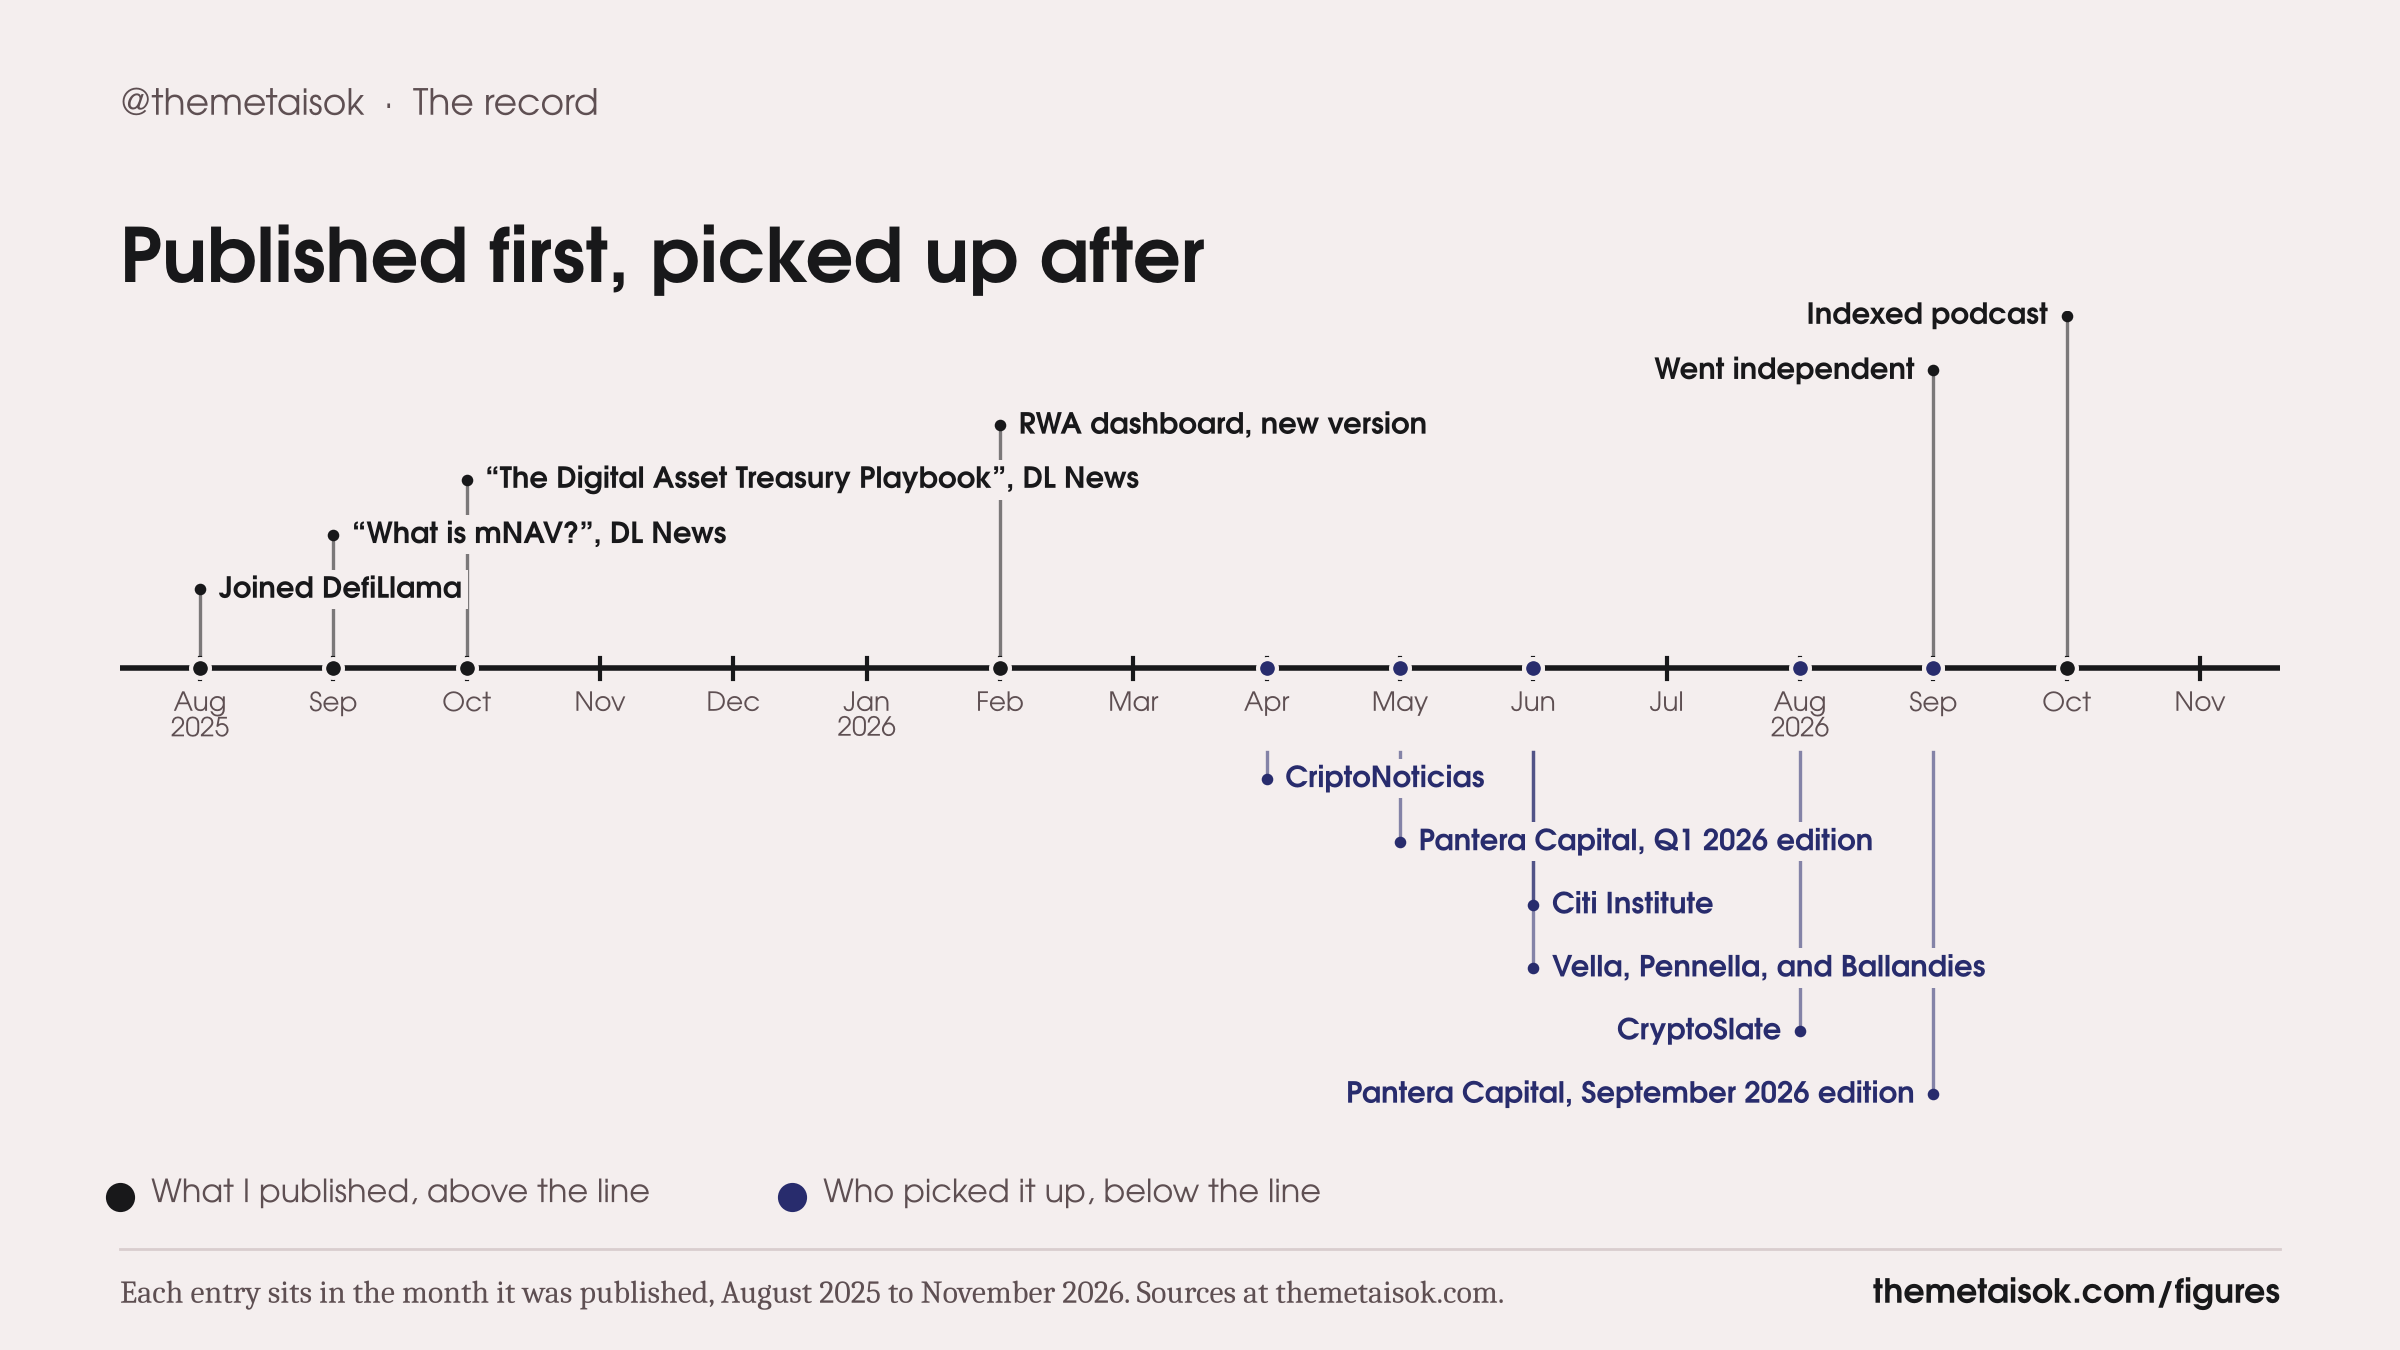
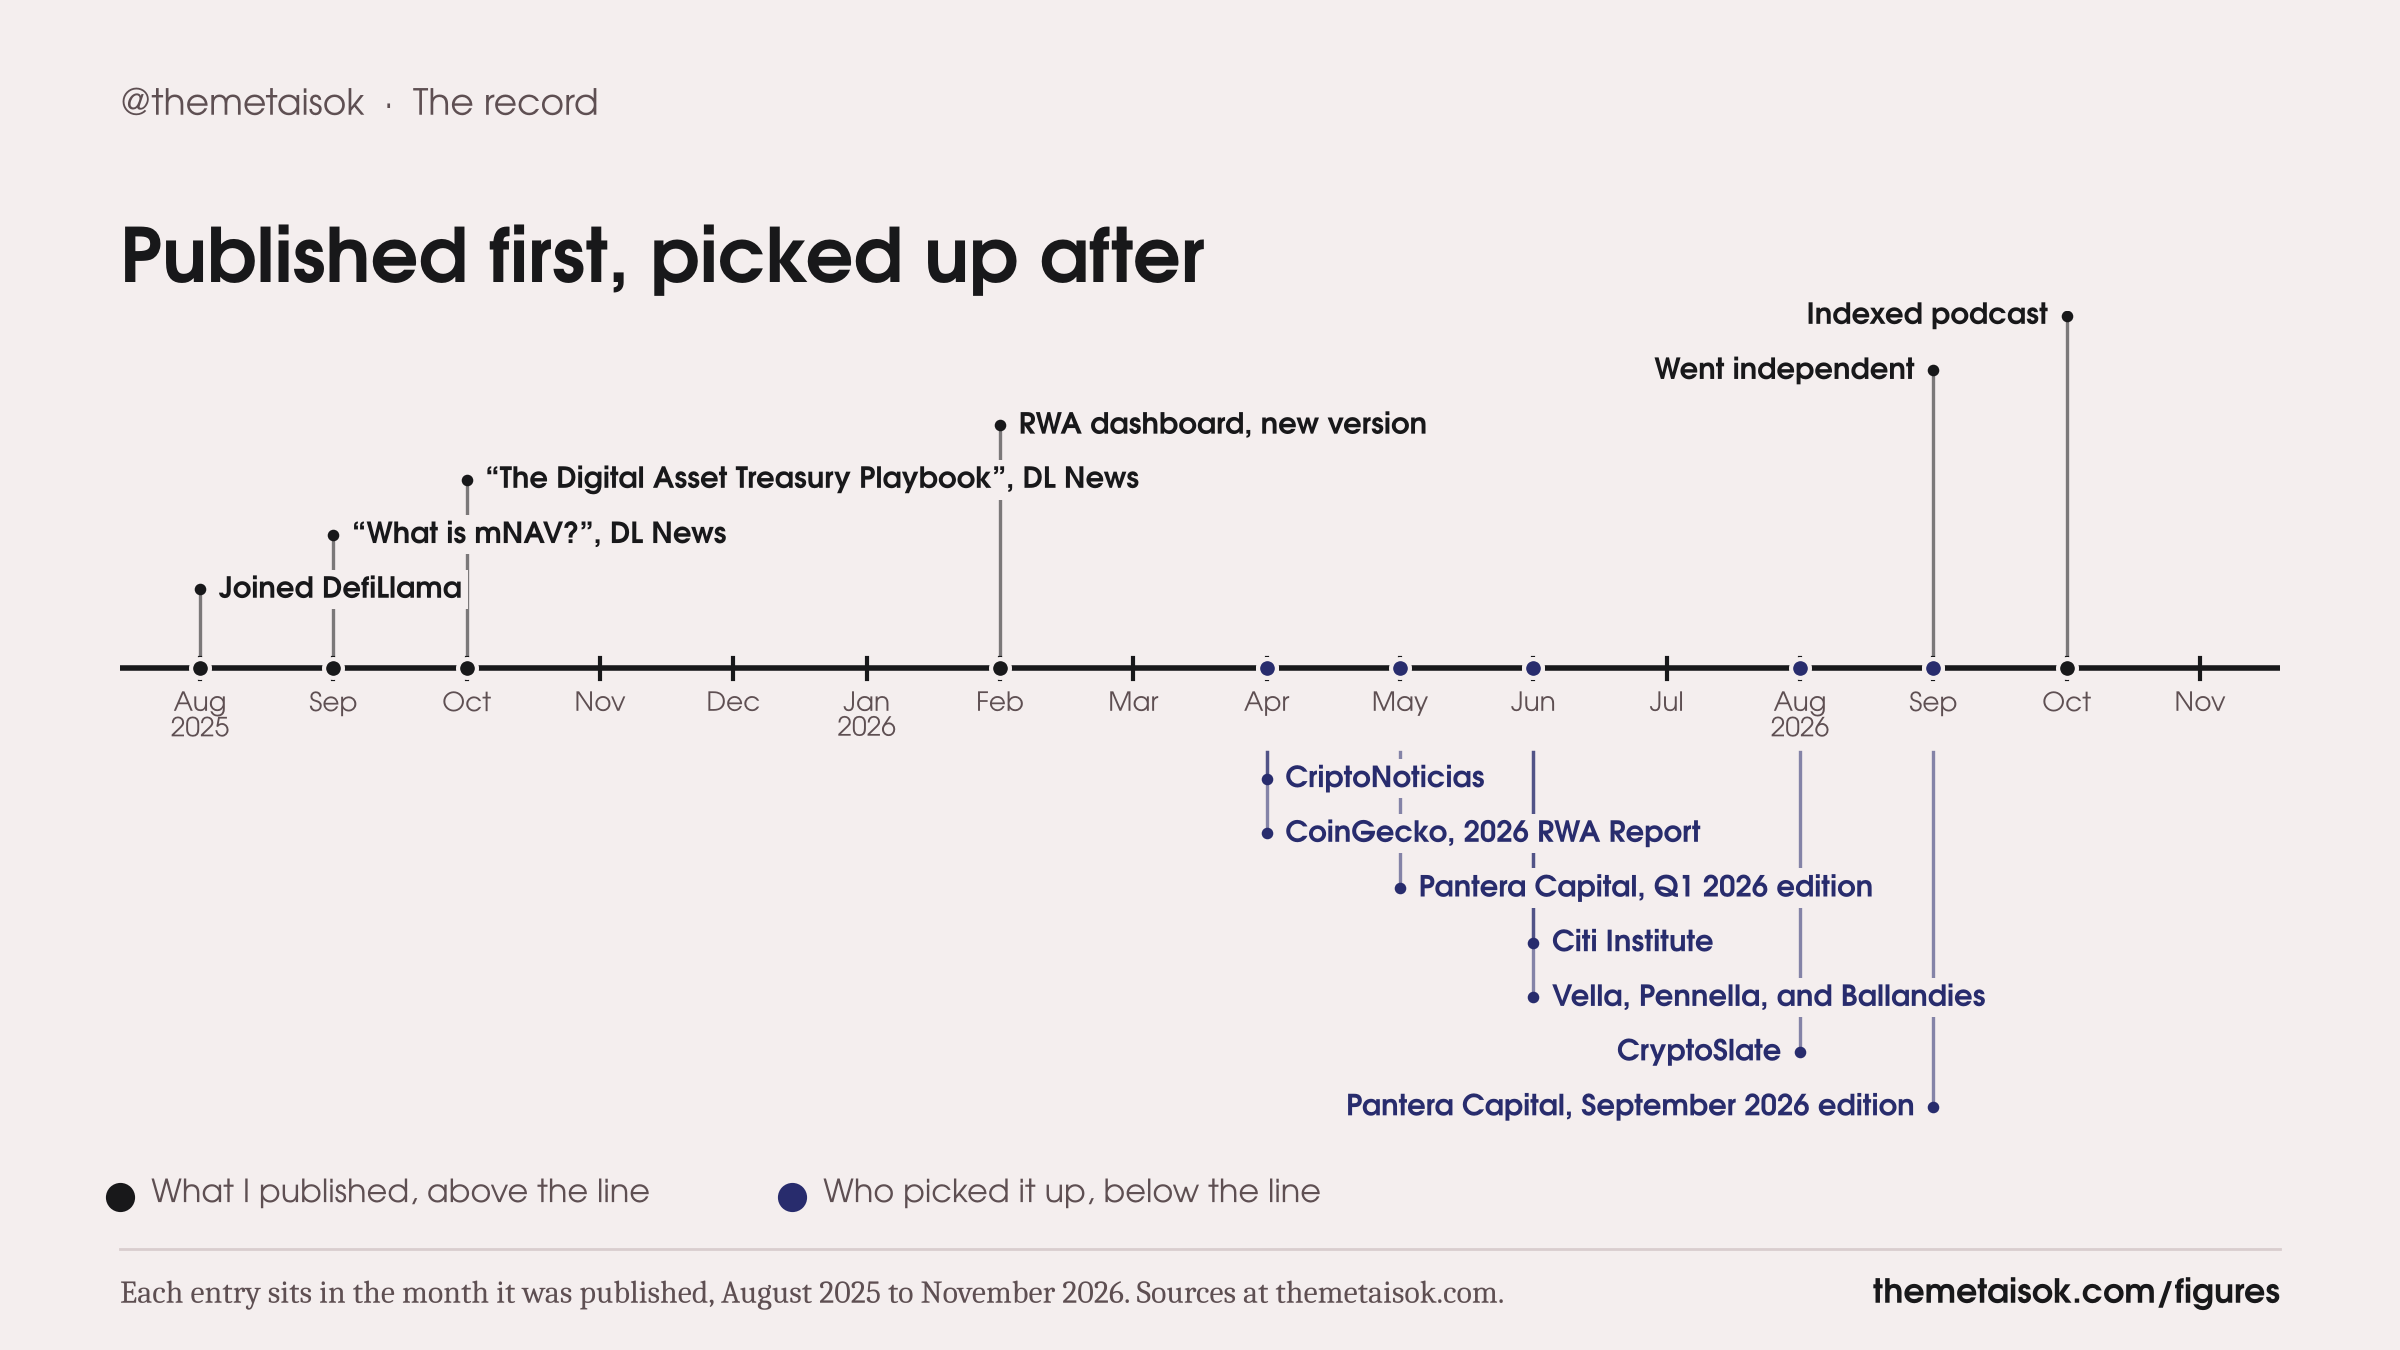
Docs counts, CoinGecko date, and venture facts
Methodology now cites the 35-column data dictionary and dates the docs
counts November 2026; the perps schema is 34 fields, matching DefiLlama's
docs. CoinGecko's report is dated April 2026 and joins the record chart
(seven pickups, April to September 2026). Strategic Sealed Packz credits
the trading engine meta built and the mNAV measures meta defined for
DefiLlama. Cryptopoly payouts are in ETH. Story Block's experiment has
concluded, and anyone can still mint.

Claude-Session: https://claude.ai/code/session_01FsG5S63kihtnaahrdhmz89

Changed region(s): [[0.5312, 0.5911, 0.8438, 0.84]]

diff --git a/index.html b/index.html
@@ -625,7 +625,7 @@ svg.narrow .b-nm{font-size:12px} svg.narrow .b-head text{font-size:12px} svg.nar
 
   <div class="pair" id="proof-coingecko">
     <div class="in">
-      <h3>CoinGecko <span class="when">2026, pp.&nbsp;16 and&nbsp;17</span></h3>
+      <h3>CoinGecko <span class="when">April 2026, pp.&nbsp;16 and&nbsp;17</span></h3>
       <p>Measures its RWA chain chart in <a href="#m-active-market-cap">Active Market Cap</a>, sourced to DefiLlama.</p>
       <p>The 2026 RWA Report sources its RWA-chains and on-chain private-credit sections to DefiLlama, and its chain chart measures daily active market capitalization, the metric I defined.</p>
       <span class="src">CoinGecko, 2026 RWA Report, pp.&nbsp;16 and&nbsp;17. <a href="https://assets.coingecko.com/reports/2026/CoinGecko-2026-RWA-Report.pdf" target="_blank" rel="noopener">Report (PDF)</a></span>
@@ -681,11 +681,11 @@ svg.narrow .b-nm{font-size:12px} svg.narrow .b-head text{font-size:12px} svg.nar
   <div class="pair">
     <div class="in">
       <h3>RWA perpetuals</h3>
-      <p>One view of RWA perps across venues: equities, indices, ETFs, commodities, bonds, and forex, broken out by venue and asset group. Every market is normalized to a common reference asset through a 17-field schema and carries a canonical market ID, so the same underlying stays comparable even when two venues name the contract differently.</p>
+      <p>One view of RWA perps across venues: equities, indices, ETFs, commodities, bonds, and forex, broken out by venue and asset group. Every market is normalized to a common reference asset through a 34-field schema and carries a canonical market ID, so the same underlying stays comparable even when two venues name the contract differently.</p>
       <dl class="figs">
         <div><dt>1,000+</dt><dd>active markets, onchain default view</dd></div>
         <div><dt>3,300+</dt><dd>with centralized exchanges</dd></div>
-        <div><dt>17</dt><dd>fields in the market schema</dd></div>
+        <div><dt>34</dt><dd>fields in the market schema</dd></div>
         <div><dt>75+</dt><dd>markets in the forex book</dd></div>
       </dl>
       <span class="src">As of September 2026. <a translate="no" href="https://defillama.com/rwa/perps" target="_blank" rel="noopener">defillama.com/rwa/perps</a></span>
@@ -715,7 +715,7 @@ svg.narrow .b-nm{font-size:12px} svg.narrow .b-head text{font-size:12px} svg.nar
   <div class="pair">
     <div class="in">
       <h3>Methodology</h3>
-      <p>I’m the sole author of the public docs: eligibility and exclusion criteria, metrics, definitions and taxonomy, the perps spec, and a standalone treasury methodology, plus a 29-column public data dictionary. Five inclusion criteria, six exclusion criteria, seven evidence flags, and five access models, with expulsion rules and a review status short of removal.</p>
+      <p>I’m the sole author of the public docs: eligibility and exclusion criteria, metrics, definitions and taxonomy, the perps spec, and a standalone treasury methodology, plus a 35-column public data dictionary. As of November 2026, the docs set five inclusion criteria, six exclusion criteria, seven evidence flags, and five access models, with expulsion rules and a review status short of removal.</p>
       <p>Also the fee and revenue methodology that made issuer economics comparable across assets: an identity equation splitting holder fees between asset manager and tokenization platform, with every estimate carrying a confidence grade and a dated primary-source audit trail.</p>
       <span class="src"><a translate="no" href="https://docs.llama.fi/real-world-assets/real-world-assets" target="_blank" rel="noopener">docs.llama.fi/real-world-assets/real-world-assets</a>, <a translate="no" href="https://docs.llama.fi/analysts/dat-methodology" target="_blank" rel="noopener">docs.llama.fi/analysts/dat-methodology</a></span>
     </div>
@@ -881,7 +881,7 @@ svg.narrow .b-nm{font-size:12px} svg.narrow .b-head text{font-size:12px} svg.nar
       <p class="role">Co-founder</p>
       <p>Sealed Pokémon packs held in vaults and tokenized on Solana, with Magic and sports products planned.</p>
       <p>It’s a digital asset treasury in everything but the asset. A vehicle holds a reserve, a token trades against it, and a trading fee routes most of its proceeds into buying more of the reserve.</p>
-      <p>An automated engine acts by <a href="#m-mnav">mNAV</a> band on the gap between the token and the vault, which is the framework I built for listed treasury companies, pointed at a shelf of sealed cardboard instead of a balance sheet of crypto. I spent a year building the dashboard that tracks the listed ones before co-founding an unlisted one.</p>
+      <p>A trading engine I built acts by <a href="#m-mnav">mNAV</a> band on the gap between the token and the vault. It’s the measure I defined for DefiLlama’s treasury tracker, pointed at a shelf of sealed cardboard instead of a balance sheet of crypto. I spent a year building the dashboard that tracks the listed ones before co-founding an unlisted one.</p>
       <span class="src"><a translate="no" href="https://www.sealedpackz.com/" target="_blank" rel="noopener">sealedpackz.com</a></span>
     </div>
     <div class="out">
@@ -893,7 +893,7 @@ svg.narrow .b-nm{font-size:12px} svg.narrow .b-head text{font-size:12px} svg.nar
     <div class="in">
       <h3>WacDonald’s</h3>
       <p class="role">Co-founder</p>
-      <p>Cryptopoly, an onchain board game that’s also an interactive art experience. An ERC-721 collection of 8,889 tiles across 37 entries in 17 categories, laid out on a 40-square board.</p>
+      <p>Cryptopoly, an onchain board game that’s also an interactive art experience. An ERC-721 collection of 8,889 tiles across 37 entries in 17 categories, each with its own payout in ETH, laid out on a 40-square board, as of November 2026.</p>
       <span class="src"><a translate="no" href="https://wacdonalds.io/" target="_blank" rel="noopener">wacdonalds.io</a></span>
     </div>
     <div class="out"><p><span class="vh">Where it stands: </span>Mainnet launch soon.</p></div>
@@ -921,7 +921,7 @@ svg.narrow .b-nm{font-size:12px} svg.narrow .b-head text{font-size:12px} svg.nar
       <p>An all-onchain collaborative narrative NFT on Ethereum. Each mint appends one sentence at the next token ID, with fully onchain SVG concatenated and re-rendered from contract state, editable after mint, with editing rights transferring on secondary sale.</p>
       <span class="src"><a translate="no" href="https://story-block.com/" target="_blank" rel="noopener">story-block.com</a>, <a href="https://opensea.io/collection/story-block" target="_blank" rel="noopener">OpenSea</a>, <a href="https://etherscan.io/address/0x0e85f0ebe129d184e6631c53348ae2746640d4b5" target="_blank" rel="noopener">Contract</a>, <a href="https://etherscan.io/token/0x0e85f0ebe129d184e6631c53348ae2746640d4b5#code" target="_blank" rel="noopener">Verified source</a></span>
     </div>
-    <div class="out"><p><span class="vh">What came of it: </span>Launched August 2022. Still mintable.</p></div>
+    <div class="out"><p><span class="vh">What came of it: </span>Launched August 2022. The experiment has concluded, and anyone can still mint.</p></div>
   </div>
 
   <div class="pair">

diff --git a/figures/index.html b/figures/index.html
@@ -523,12 +523,12 @@ svg.narrow .b-nm{font-size:12px} svg.narrow .b-head text{font-size:12px} svg.nar
   <div class="pair fig">
     <div class="in">
       <h3>Published first, picked up after <span class="when">August 2025 to November 2026</span></h3>
-      <div class="cfig"><div class="c-tl"><div class="c-mo c-hd2" aria-hidden="true"><div class="c-l">What I published</div><div class="c-axis"></div><div class="c-r">Who picked it up</div></div><div class="c-mo"><div class="c-l"><p class="c-ev"><b>Joined DefiLlama</b></p></div><div class="c-axis"><span>Aug 2025</span></div><div class="c-r"></div></div><div class="c-mo"><div class="c-l"><p class="c-ev"><b>“What is mNAV?”, DL News</b></p></div><div class="c-axis"><span>Sep</span></div><div class="c-r"></div></div><div class="c-mo"><div class="c-l"><p class="c-ev"><b>“The Digital Asset Treasury Playbook”, DL News</b></p></div><div class="c-axis"><span>Oct</span></div><div class="c-r"></div></div><div class="c-mo"><div class="c-l"></div><div class="c-axis"><span>Nov</span></div><div class="c-r"></div></div><div class="c-mo"><div class="c-l"></div><div class="c-axis"><span>Dec</span></div><div class="c-r"></div></div><div class="c-mo"><div class="c-l"></div><div class="c-axis"><span>Jan 2026</span></div><div class="c-r"></div></div><div class="c-mo"><div class="c-l"><p class="c-ev"><b>RWA dashboard, new version</b></p></div><div class="c-axis"><span>Feb</span></div><div class="c-r"></div></div><div class="c-mo"><div class="c-l"></div><div class="c-axis"><span>Mar</span></div><div class="c-r"></div></div><div class="c-mo"><div class="c-l"></div><div class="c-axis"><span>Apr</span></div><div class="c-r"><p class="c-ev"><b>CriptoNoticias</b><small>Spanish-language coverage of the RWA data</small></p></div></div><div class="c-mo"><div class="c-l"></div><div class="c-axis"><span>May</span></div><div class="c-r"><p class="c-ev"><b>Pantera Capital, Q1 2026 edition</b><small>Adopts DeFi Active TVL</small></p></div></div><div class="c-mo"><div class="c-l"></div><div class="c-axis"><span>Jun</span></div><div class="c-r"><p class="c-ev"><b>Citi Institute</b><small>Market size sourced to DefiLlama, p. 19</small></p><p class="c-ev"><b>Vella, Pennella, and Ballandies</b><small>arXiv paper, DefiLlama as selection criterion</small></p></div></div><div class="c-mo"><div class="c-l"></div><div class="c-axis"><span>Jul</span></div><div class="c-r"></div></div><div class="c-mo"><div class="c-l"></div><div class="c-axis"><span>Aug 2026</span></div><div class="c-r"><p class="c-ev"><b>CryptoSlate</b><small>Runs DeFi Active TVL as a column heading</small></p></div></div><div class="c-mo"><div class="c-l"><p class="c-ev"><b>Went independent</b></p></div><div class="c-axis"><span>Sep</span></div><div class="c-r"><p class="c-ev"><b>Pantera Capital, September 2026 edition</b><small>Credits me by name again</small></p></div></div><div class="c-mo"><div class="c-l"><p class="c-ev"><b>Indexed podcast</b></p></div><div class="c-axis"><span>Oct</span></div><div class="c-r"></div></div><div class="c-mo"><div class="c-l"></div><div class="c-axis"><span>Nov</span></div><div class="c-r"></div></div></div></div>
+      <div class="cfig"><div class="c-tl"><div class="c-mo c-hd2" aria-hidden="true"><div class="c-l">What I published</div><div class="c-axis"></div><div class="c-r">Who picked it up</div></div><div class="c-mo"><div class="c-l"><p class="c-ev"><b>Joined DefiLlama</b></p></div><div class="c-axis"><span>Aug 2025</span></div><div class="c-r"></div></div><div class="c-mo"><div class="c-l"><p class="c-ev"><b>“What is mNAV?”, DL News</b></p></div><div class="c-axis"><span>Sep</span></div><div class="c-r"></div></div><div class="c-mo"><div class="c-l"><p class="c-ev"><b>“The Digital Asset Treasury Playbook”, DL News</b></p></div><div class="c-axis"><span>Oct</span></div><div class="c-r"></div></div><div class="c-mo"><div class="c-l"></div><div class="c-axis"><span>Nov</span></div><div class="c-r"></div></div><div class="c-mo"><div class="c-l"></div><div class="c-axis"><span>Dec</span></div><div class="c-r"></div></div><div class="c-mo"><div class="c-l"></div><div class="c-axis"><span>Jan 2026</span></div><div class="c-r"></div></div><div class="c-mo"><div class="c-l"><p class="c-ev"><b>RWA dashboard, new version</b></p></div><div class="c-axis"><span>Feb</span></div><div class="c-r"></div></div><div class="c-mo"><div class="c-l"></div><div class="c-axis"><span>Mar</span></div><div class="c-r"></div></div><div class="c-mo"><div class="c-l"></div><div class="c-axis"><span>Apr</span></div><div class="c-r"><p class="c-ev"><b>CriptoNoticias</b><small>Spanish-language coverage of the RWA data</small></p><p class="c-ev"><b>CoinGecko, 2026 RWA Report</b><small>RWA chain data sourced to DefiLlama</small></p></div></div><div class="c-mo"><div class="c-l"></div><div class="c-axis"><span>May</span></div><div class="c-r"><p class="c-ev"><b>Pantera Capital, Q1 2026 edition</b><small>Adopts DeFi Active TVL</small></p></div></div><div class="c-mo"><div class="c-l"></div><div class="c-axis"><span>Jun</span></div><div class="c-r"><p class="c-ev"><b>Citi Institute</b><small>Market size sourced to DefiLlama, p. 19</small></p><p class="c-ev"><b>Vella, Pennella, and Ballandies</b><small>arXiv paper, DefiLlama as selection criterion</small></p></div></div><div class="c-mo"><div class="c-l"></div><div class="c-axis"><span>Jul</span></div><div class="c-r"></div></div><div class="c-mo"><div class="c-l"></div><div class="c-axis"><span>Aug 2026</span></div><div class="c-r"><p class="c-ev"><b>CryptoSlate</b><small>Runs DeFi Active TVL as a column heading</small></p></div></div><div class="c-mo"><div class="c-l"><p class="c-ev"><b>Went independent</b></p></div><div class="c-axis"><span>Sep</span></div><div class="c-r"><p class="c-ev"><b>Pantera Capital, September 2026 edition</b><small>Credits me by name again</small></p></div></div><div class="c-mo"><div class="c-l"><p class="c-ev"><b>Indexed podcast</b></p></div><div class="c-axis"><span>Oct</span></div><div class="c-r"></div></div><div class="c-mo"><div class="c-l"></div><div class="c-axis"><span>Nov</span></div><div class="c-r"></div></div></div></div>
       <span class="src">Each entry sits in the month it was published. Sources are on the <a href="../#proof">main page</a>.</span>
       <span class="src dl"><a href="img/record.png" download>Download as an image (PNG)</a></span>
     </div>
     <div class="out">
-      <p><span class="vh">Does not count: </span>Overnight adoption. The new RWA dashboard went out in February 2026. Six pickups followed between April and September 2026.</p>
+      <p><span class="vh">Does not count: </span>Overnight adoption. The new RWA dashboard went out in February 2026. Seven pickups followed between April and September 2026.</p>
     </div>
   </div>
 </section>
